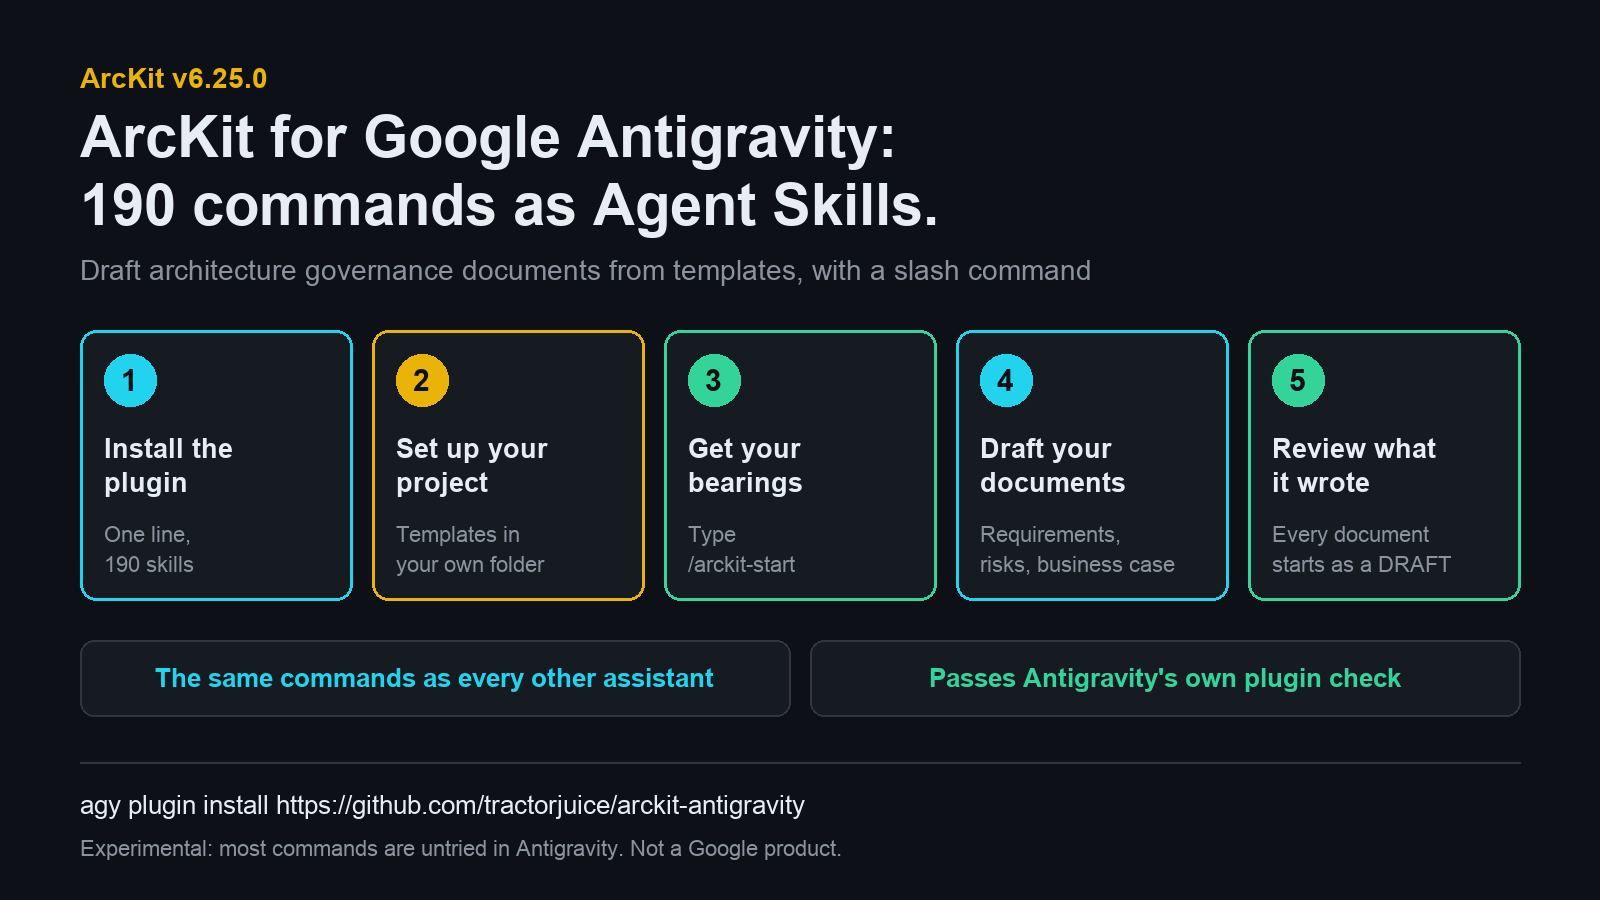
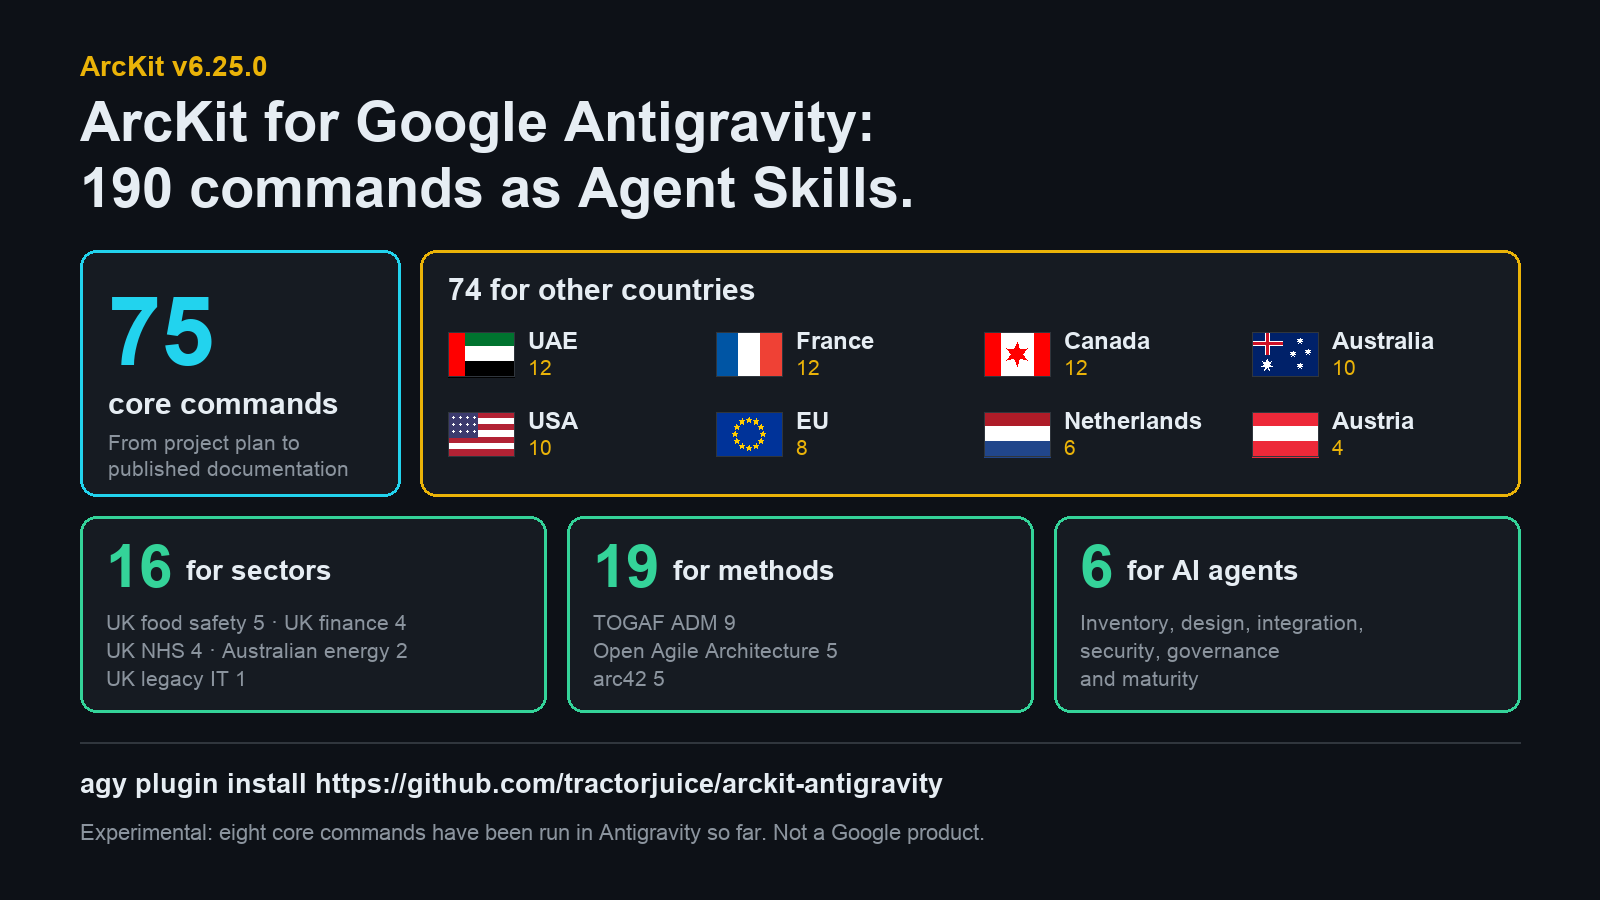
docs: the 6.25.0 hero shows the breakdown of the 190 commands
75 core, 74 for other countries with a small drawn flag and count for each,
16 for sectors, 19 for methods and 6 for AI agents, in place of the five
steps. The limits line now says eight core commands have been run.

Claude-Session: https://claude.ai/code/session_01Hfsx56kefipenQbkB64qZ1

Changed region(s): [[0.0312, 0.0622, 0.9688, 0.8089], [0.0312, 0.84, 0.625, 0.9644]]

diff --git a/docs/share/2026-11-22-arckit-v6-25-google-antigravity-plugin-agent-skills.html b/docs/share/2026-11-22-arckit-v6-25-google-antigravity-plugin-agent-skills.html
@@ -23,7 +23,7 @@
     <meta property="og:url" content="https://arckit.org/share/2026-11-22-arckit-v6-25-google-antigravity-plugin-agent-skills.html">
     <meta property="og:site_name" content="ArcKit">
     <meta property="og:image" content="https://arckit.org/articles/2026-11-22-arckit-v6-25-google-antigravity-plugin-agent-skills-hero.png">
-    <meta property="og:image:alt" content="ArcKit for Google Antigravity: 190 commands as Agent Skills. ArcKit v6.25.0. Five steps: install the plugin, set up your project, get your bearings with /arckit-start, draft your documents, review what it wrote. The same commands as every other assistant; passes Antigravity&#x27;s own plugin check. Experimental: most commands are untried in Antigravity. Not a Google product.">
+    <meta property="og:image:alt" content="ArcKit for Google Antigravity: 190 commands as Agent Skills. ArcKit v6.25.0. 75 core commands; 74 for other countries (UAE 12, France 12, Canada 12, Australia 10, USA 10, EU 8, Netherlands 6, Austria 4); 16 for sectors; 19 for methods; 6 for AI agents. Experimental: eight core commands have been run in Antigravity so far. Not a Google product.">
     <meta name="twitter:card" content="summary_large_image">
     <meta name="twitter:title" content="Google Antigravity Plugin for Enterprise Architecture: 190 Agent Skills in ArcKit v6.25.0">
     <meta name="twitter:description" content="A Google Antigravity plugin for enterprise architecture: ArcKit&#x27;s 190 governance commands as Agent Skills. Install with one line and type /arckit-start.">
@@ -294,7 +294,7 @@
     <main class="govuk-main-wrapper" id="main-content" role="main">
         <div class="govuk-width-container">
             <a href="../articles.html" class="govuk-back-link govuk-!-margin-bottom-6">Back to Articles</a>
-<img class="app-article-hero-img" src="../articles/2026-11-22-arckit-v6-25-google-antigravity-plugin-agent-skills-hero.png" alt="ArcKit for Google Antigravity: 190 commands as Agent Skills. ArcKit v6.25.0. Five steps: install the plugin, set up your project, get your bearings with /arckit-start, draft your documents, review what it wrote. The same commands as every other assistant; passes Antigravity&#x27;s own plugin check. Experimental: most commands are untried in Antigravity. Not a Google product.">
+<img class="app-article-hero-img" src="../articles/2026-11-22-arckit-v6-25-google-antigravity-plugin-agent-skills-hero.png" alt="ArcKit for Google Antigravity: 190 commands as Agent Skills. ArcKit v6.25.0. 75 core commands; 74 for other countries (UAE 12, France 12, Canada 12, Australia 10, USA 10, EU 8, Netherlands 6, Austria 4); 16 for sectors; 19 for methods; 6 for AI agents. Experimental: eight core commands have been run in Antigravity so far. Not a Google product.">
 <div class="app-article-meta"><span class="app-article-meta__date">22 November 2026</span></div>
 <article id="content" class="app-markdown">
 <p><strong>Google Antigravity is Google's agentic development platform, and it runs Agent Skills that you call with a slash command. ArcKit v6.25.0 adds a Google Antigravity plugin that brings ArcKit's 190 architecture governance commands to it as Agent Skills: type <code>/arckit-requirements</code> and it drafts a requirements document from a template.</strong></p>

diff --git a/docs/articles.html b/docs/articles.html
@@ -336,7 +336,7 @@
                 <!-- 2026-11-22 Google Antigravity Plugin for Enterprise Architecture: 190 Agent Skills in ArcKit v6.25.0 -->
                 <article class="app-article-card">
                     <a class="app-article-card__media" href="share/2026-11-22-arckit-v6-25-google-antigravity-plugin-agent-skills.html">
-                        <img src="articles/2026-11-22-arckit-v6-25-google-antigravity-plugin-agent-skills-hero.png" alt="ArcKit for Google Antigravity: 190 commands as Agent Skills. ArcKit v6.25.0. Five steps: install the plugin, set up your project, get your bearings with /arckit-start, draft your documents, review what it wrote. The same commands as every other assistant; passes Antigravity's own plugin check. Experimental: most commands are untried in Antigravity. Not a Google product." loading="lazy">
+                        <img src="articles/2026-11-22-arckit-v6-25-google-antigravity-plugin-agent-skills-hero.png" alt="ArcKit for Google Antigravity: 190 commands as Agent Skills. ArcKit v6.25.0. 75 core commands; 74 for other countries (UAE 12, France 12, Canada 12, Australia 10, USA 10, EU 8, Netherlands 6, Austria 4); 16 for sectors; 19 for methods; 6 for AI agents. Experimental: eight core commands have been run in Antigravity so far. Not a Google product." loading="lazy">
                     </a>
                     <div class="app-article-card__body">
                         <div class="app-article-card__meta">

diff --git a/docs/index.html b/docs/index.html
@@ -889,7 +889,7 @@
             <div class="app-article-teaser-grid">
                 <article class="app-article-teaser">
                     <a class="app-article-teaser__media" href="share/2026-11-22-arckit-v6-25-google-antigravity-plugin-agent-skills.html">
-                        <img src="articles/2026-11-22-arckit-v6-25-google-antigravity-plugin-agent-skills-hero.png" alt="ArcKit for Google Antigravity: 190 commands as Agent Skills. ArcKit v6.25.0. Five steps: install the plugin, set up your project, get your bearings with /arckit-start, draft your documents, review what it wrote. The same commands as every other assistant; passes Antigravity's own plugin check. Experimental: most commands are untried in Antigravity. Not a Google product." loading="lazy">
+                        <img src="articles/2026-11-22-arckit-v6-25-google-antigravity-plugin-agent-skills-hero.png" alt="ArcKit for Google Antigravity: 190 commands as Agent Skills. ArcKit v6.25.0. 75 core commands; 74 for other countries (UAE 12, France 12, Canada 12, Australia 10, USA 10, EU 8, Netherlands 6, Austria 4); 16 for sectors; 19 for methods; 6 for AI agents. Experimental: eight core commands have been run in Antigravity so far. Not a Google product." loading="lazy">
                     </a>
                     <div class="app-article-teaser__body">
                         <div class="app-article-teaser__meta">

diff --git a/docs/articles/generate-hero-v6-25-google-antigravity-plugin.py b/docs/articles/generate-hero-v6-25-google-antigravity-plugin.py
@@ -1,15 +1,21 @@
 """Generate the hero image for the ArcKit v6.25.0 release article.
 
-Written for the person using Google Antigravity: the steps they take to run ArcKit
-there, then what they can rely on. Same house style as the sibling
-generate-hero-*.py scripts.
+Written for the person using Google Antigravity: what the one plugin brings,
+broken down as the article breaks it down (75 core commands, 74 for other
+countries, 16 for sectors, 19 for methods, 6 for AI agents). Same house style
+as the sibling generate-hero-*.py scripts.
 
     uv run --with pillow python docs/articles/generate-hero-v6-25-google-antigravity-plugin.py [output.png]
 
 With no argument it writes the published hero's file name, so pass a path to
 start a new design without overwriting a hero the maintainer has restyled.
+
+The flags are drawn here as simple shapes, not loaded from image files, so the
+script needs nothing but Pillow. They are small pointers to a country, not
+accurate renderings.
 """
 
+import math
 import sys
 from pathlib import Path
 
@@ -18,20 +24,21 @@ from PIL import Image, ImageDraw, ImageFont
 # --- wording
 VERSION = "ArcKit v6.25.0"
 HEADLINE = ("ArcKit for Google Antigravity:", "190 commands as Agent Skills.")
-SUB = "Draft architecture governance documents from templates, with a slash command"
-STEPS = (
-    ("Install the", "plugin", "One line,", "190 skills"),
-    ("Set up your", "project", "Templates in", "your own folder"),
-    ("Get your", "bearings", "Type", "/arckit-start"),
-    ("Draft your", "documents", "Requirements,", "risks, business case"),
-    ("Review what", "it wrote", "Every document", "starts as a DRAFT"),
+CORE = ("75", "core commands", "From project plan to", "published documentation")
+COUNTRIES_TITLE = "74 for other countries"
+COUNTRIES = (("uae", "UAE", 12), ("fr", "France", 12), ("ca", "Canada", 12), ("au", "Australia", 10),
+             ("us", "USA", 10), ("eu", "EU", 8), ("nl", "Netherlands", 6), ("at", "Austria", 4))
+GROUPS = (
+    ("16", "for sectors", ("UK food safety 5 · UK finance 4", "UK NHS 4 · Australian energy 2", "UK legacy IT 1")),
+    ("19", "for methods", ("TOGAF ADM 9", "Open Agile Architecture 5", "arc42 5")),
+    ("6", "for AI agents", ("Inventory, design, integration,", "security, governance", "and maturity")),
 )
-FACTS = ("The same commands as every other assistant", "Passes Antigravity's own plugin check")
 FOOT = "agy plugin install https://github.com/tractorjuice/arckit-antigravity"
-SMALL = "Experimental: most commands are untried in Antigravity. Not a Google product."
+SMALL = "Experimental: eight core commands have been run in Antigravity so far. Not a Google product."
 PUBLISHED = "2026-11-22-arckit-v6-25-google-antigravity-plugin-agent-skills-hero.png"
-# --- drawing
+assert 75 + sum(n for _, _, n in COUNTRIES) + sum(int(g[0]) for g in GROUPS) == 190
 
+# --- drawing
 W, H = 1600, 900
 BG = (13, 17, 23)
 PANEL = (22, 27, 34)
@@ -41,7 +48,6 @@ MUTED = (139, 148, 158)
 GOLD = (234, 179, 8)
 CYAN = (34, 211, 238)
 GREEN = (52, 211, 153)
-COLOURS = (CYAN, GOLD, GREEN, CYAN, GREEN)
 
 img = Image.new("RGB", (W, H), BG)
 d = ImageDraw.Draw(img)
@@ -66,36 +72,101 @@ def fits(text, face, width):
     return text
 
 
-d.text((80, 62), VERSION, font=font(28, True), fill=GOLD)
-d.text((80, 104), fits(HEADLINE[0], font(58, True), 1440), font=font(58, True), fill=TEXT)
-d.text((80, 172), fits(HEADLINE[1], font(58, True), 1440), font=font(58, True), fill=TEXT)
-d.text((80, 254), fits(SUB, font(28), 1440), font=font(28), fill=MUTED)
+def star(cx, cy, r, fill, points=5):
+    pts = []
+    for k in range(points * 2):
+        radius = r if k % 2 == 0 else r * 0.42
+        angle = -math.pi / 2 + k * math.pi / points
+        pts.append((cx + radius * math.cos(angle), cy + radius * math.sin(angle)))
+    d.polygon(pts, fill=fill)
 
-# The steps, in the order you meet them.
-TOP = 330
-WIDTH, GAP = 272, 20
-for i, (title1, title2, detail1, detail2) in enumerate(STEPS):
-    colour = COLOURS[i]
+
+FW, FH = 66, 44
+RED, WHITE, BLUE, NAVY = (206, 17, 38), (255, 255, 255), (0, 85, 164), (0, 33, 105)
+
+
+def flag(code, x, y):
+    """A small flag at x, y. Simple shapes only."""
+    if code == "fr":
+        for i, c in enumerate((BLUE, WHITE, (239, 65, 53))):
+            d.rectangle((x + i * FW // 3, y, x + (i + 1) * FW // 3, y + FH), fill=c)
+    elif code == "nl":
+        for i, c in enumerate(((174, 28, 40), WHITE, (33, 70, 139))):
+            d.rectangle((x, y + i * FH // 3, x + FW, y + (i + 1) * FH // 3 + (1 if i == 2 else 0)), fill=c)
+    elif code == "at":
+        for i, c in enumerate(((237, 41, 57), WHITE, (237, 41, 57))):
+            d.rectangle((x, y + i * FH // 3, x + FW, y + (i + 1) * FH // 3 + (1 if i == 2 else 0)), fill=c)
+    elif code == "uae":
+        for i, c in enumerate(((0, 115, 47), WHITE, (0, 0, 0))):
+            d.rectangle((x, y + i * FH // 3, x + FW, y + (i + 1) * FH // 3 + (1 if i == 2 else 0)), fill=c)
+        d.rectangle((x, y, x + FW // 4, y + FH), fill=(255, 0, 0))
+    elif code == "ca":
+        d.rectangle((x, y, x + FW, y + FH), fill=WHITE)
+        d.rectangle((x, y, x + FW // 4, y + FH), fill=(255, 0, 0))
+        d.rectangle((x + FW - FW // 4, y, x + FW, y + FH), fill=(255, 0, 0))
+        star(x + FW // 2, y + FH // 2, 12, (255, 0, 0), points=6)  # stands in for the maple leaf
+    elif code == "us":
+        for i in range(7):
+            d.rectangle((x, y + i * FH / 7, x + FW, y + (i + 1) * FH / 7), fill=(178, 34, 52) if i % 2 == 0 else WHITE)
+        d.rectangle((x, y, x + FW * 0.44, y + FH * 4 / 7), fill=(60, 59, 110))
+        for row in range(3):
+            for col in range(4):
+                d.ellipse((x + 4 + col * 7, y + 4 + row * 7, x + 6 + col * 7, y + 6 + row * 7), fill=WHITE)
+    elif code == "eu":
+        d.rectangle((x, y, x + FW, y + FH), fill=(0, 51, 153))
+        for k in range(12):
+            angle = k * math.pi / 6
+            star(x + FW / 2 + 14 * math.cos(angle), y + FH / 2 + 14 * math.sin(angle), 3, (255, 204, 0))
+    elif code == "au":
+        d.rectangle((x, y, x + FW, y + FH), fill=NAVY)
+        # the Union Flag in the corner, as a white and red cross
+        d.rectangle((x, y + 9, x + 30, y + 13), fill=WHITE)
+        d.rectangle((x + 13, y, x + 17, y + 22), fill=WHITE)
+        d.rectangle((x, y + 10, x + 30, y + 12), fill=RED)
+        d.rectangle((x + 14, y, x + 16, y + 22), fill=RED)
+        star(x + 15, y + 33, 6, WHITE, points=7)
+        for sx, sy in ((48, 9), (56, 20), (48, 34), (41, 22)):
+            star(x + sx, y + sy, 3, WHITE, points=7)
+    d.rectangle((x, y, x + FW, y + FH), outline=LINE, width=1)
+
+
+d.text((80, 50), VERSION, font=font(28, True), fill=GOLD)
+d.text((80, 90), fits(HEADLINE[0], font(56, True), 1440), font=font(56, True), fill=TEXT)
+d.text((80, 156), fits(HEADLINE[1], font(56, True), 1440), font=font(56, True), fill=TEXT)
+
+# Row one: the core, then the countries.
+TOP, ROW1 = 250, 246
+d.rounded_rectangle((80, TOP, 400, TOP + ROW1), radius=16, fill=PANEL, outline=CYAN, width=3)
+d.text((108, TOP + 28), CORE[0], font=font(96, True), fill=CYAN)
+d.text((108, TOP + 136), fits(CORE[1], font(30, True), 270), font=font(30, True), fill=TEXT)
+d.text((108, TOP + 180), fits(CORE[2], font(21), 270), font=font(21), fill=MUTED)
+d.text((108, TOP + 206), fits(CORE[3], font(21), 270), font=font(21), fill=MUTED)
+
+d.rounded_rectangle((420, TOP, 1520, TOP + ROW1), radius=16, fill=PANEL, outline=GOLD, width=3)
+d.text((448, TOP + 22), fits(COUNTRIES_TITLE, font(30, True), 1040), font=font(30, True), fill=TEXT)
+CELL = 268
+for i, (code, name, count) in enumerate(COUNTRIES):
+    cx = 448 + (i % 4) * CELL
+    cy = TOP + 82 + (i // 4) * 80
+    flag(code, cx, cy)
+    d.text((cx + FW + 14, cy + 9), fits(name, font(24, True), CELL - FW - 24), font=font(24, True), fill=TEXT, anchor="lm")
+    d.text((cx + FW + 14, cy + 35), str(count), font=font(21), fill=GOLD, anchor="lm")
+
+# Row two: sectors, methods, AI agents.
+TOP2, ROW2 = 516, 196
+WIDTH, GAP = 466, 21
+for i, (number, label, lines) in enumerate(GROUPS):
     x = 80 + i * (WIDTH + GAP)
-    d.rounded_rectangle((x, TOP, x + WIDTH, TOP + 270), radius=16, fill=PANEL, outline=colour, width=3)
-    d.ellipse((x + 24, TOP + 24, x + 76, TOP + 76), fill=colour)
-    d.text((x + 50, TOP + 50), str(i + 1), font=font(30, True), fill=BG, anchor="mm")
-    d.text((x + 24, TOP + 118), fits(title1, font(27, True), WIDTH - 40), font=font(27, True), fill=TEXT, anchor="lm")
-    d.text((x + 24, TOP + 152), fits(title2, font(27, True), WIDTH - 40), font=font(27, True), fill=TEXT, anchor="lm")
-    d.text((x + 24, TOP + 204), fits(detail1, font(22), WIDTH - 40), font=font(22), fill=MUTED, anchor="lm")
-    d.text((x + 24, TOP + 234), fits(detail2, font(22), WIDTH - 40), font=font(22), fill=MUTED, anchor="lm")
+    d.rounded_rectangle((x, TOP2, x + WIDTH, TOP2 + ROW2), radius=16, fill=PANEL, outline=GREEN, width=3)
+    d.text((x + 26, TOP2 + 16), number, font=font(60, True), fill=GREEN)
+    offset = d.textlength(number, font=font(60, True))
+    d.text((x + 40 + offset, TOP2 + 54), fits(label, font(28, True), WIDTH - 80 - offset), font=font(28, True), fill=TEXT, anchor="lm")
+    for k, line in enumerate(lines):
+        d.text((x + 26, TOP2 + 106 + k * 28), fits(line, font(21), WIDTH - 48), font=font(21), fill=MUTED, anchor="lm")
 
-# What you can rely on.
-Y = 640
-x = 80
-for text, colour in zip(FACTS, (CYAN, GREEN)):
-    d.rounded_rectangle((x, Y, x + 710, Y + 76), radius=14, fill=PANEL, outline=LINE, width=2)
-    d.text((x + 355, Y + 38), fits(text, font(26, True), 670), font=font(26, True), fill=colour, anchor="mm")
-    x += 730
-
-d.line((80, 762, 1520, 762), fill=LINE, width=2)
-d.text((80, 790), fits(FOOT, font(26), 1440), font=font(26), fill=TEXT)
-d.text((80, 836), fits(SMALL, font(22), 1440), font=font(22), fill=MUTED)
+d.line((80, 742, 1520, 742), fill=LINE, width=2)
+d.text((80, 768), fits(FOOT, font(27, True), 1440), font=font(27, True), fill=TEXT)
+d.text((80, 820), fits(SMALL, font(22), 1440), font=font(22), fill=MUTED)
 
 out = Path(sys.argv[1]) if len(sys.argv) > 1 else Path(__file__).with_name(PUBLISHED)
 img.save(out, optimize=True)
